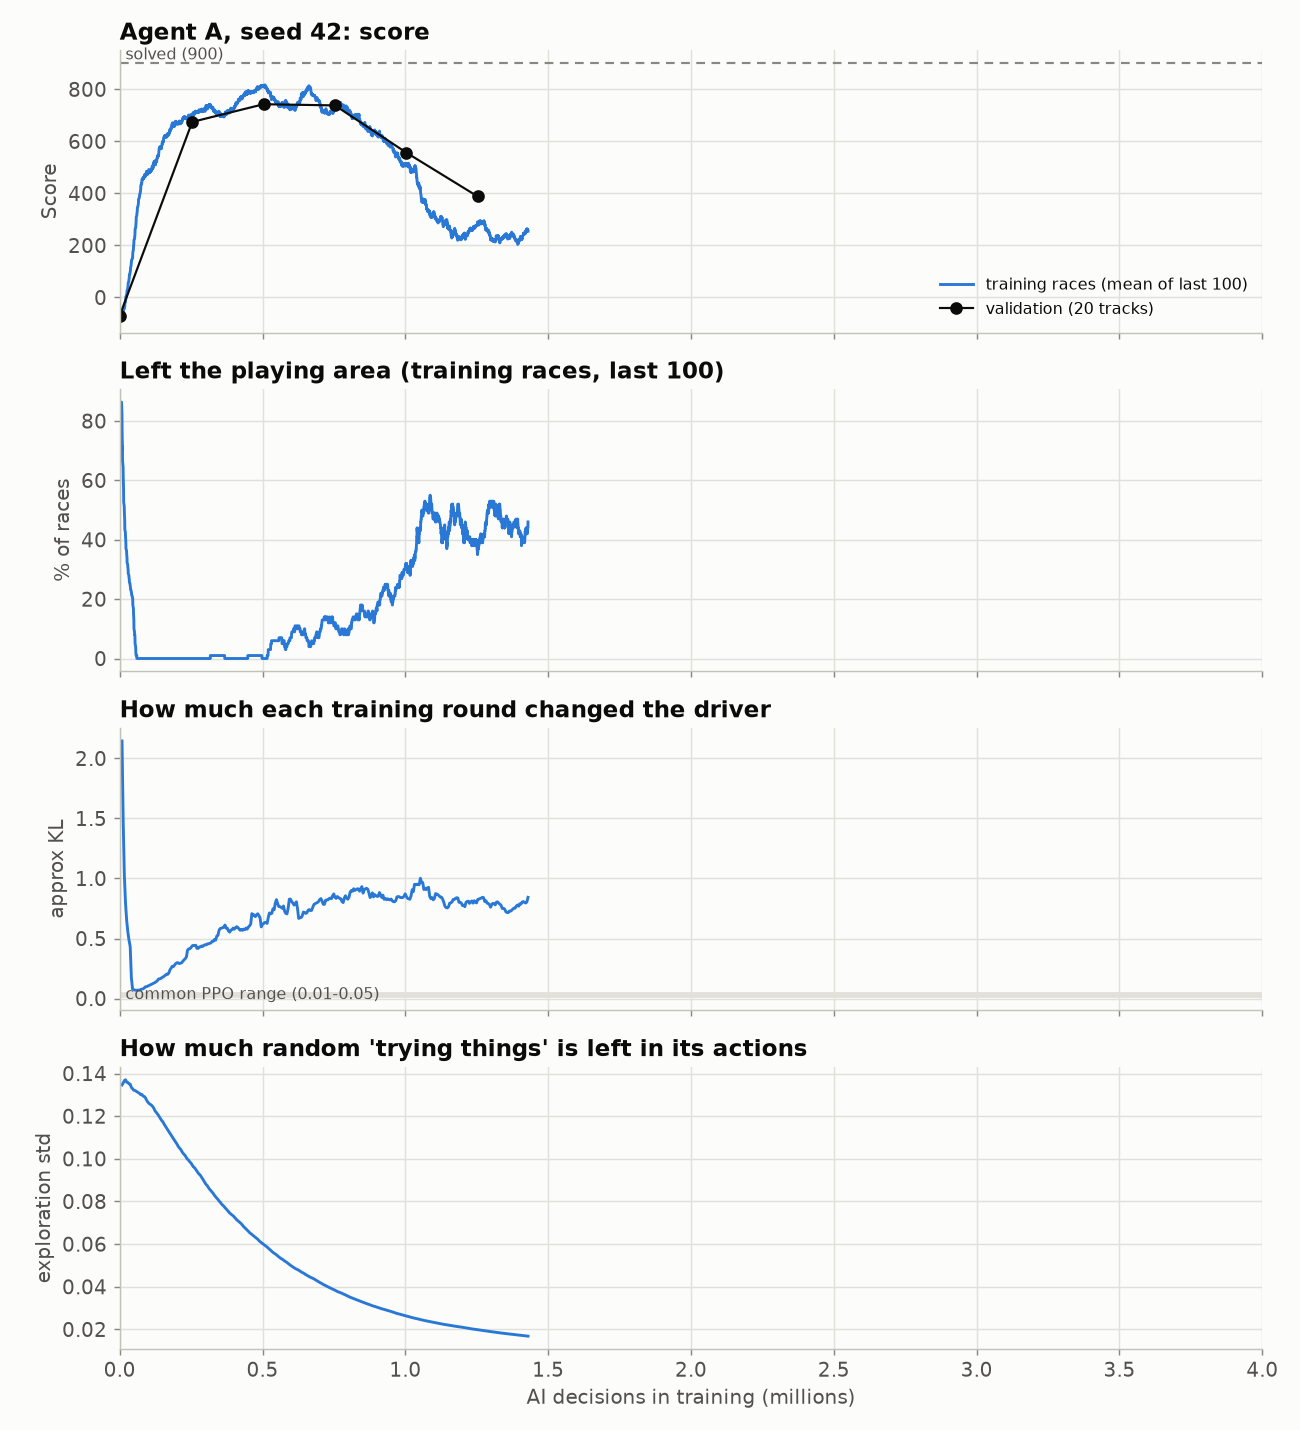
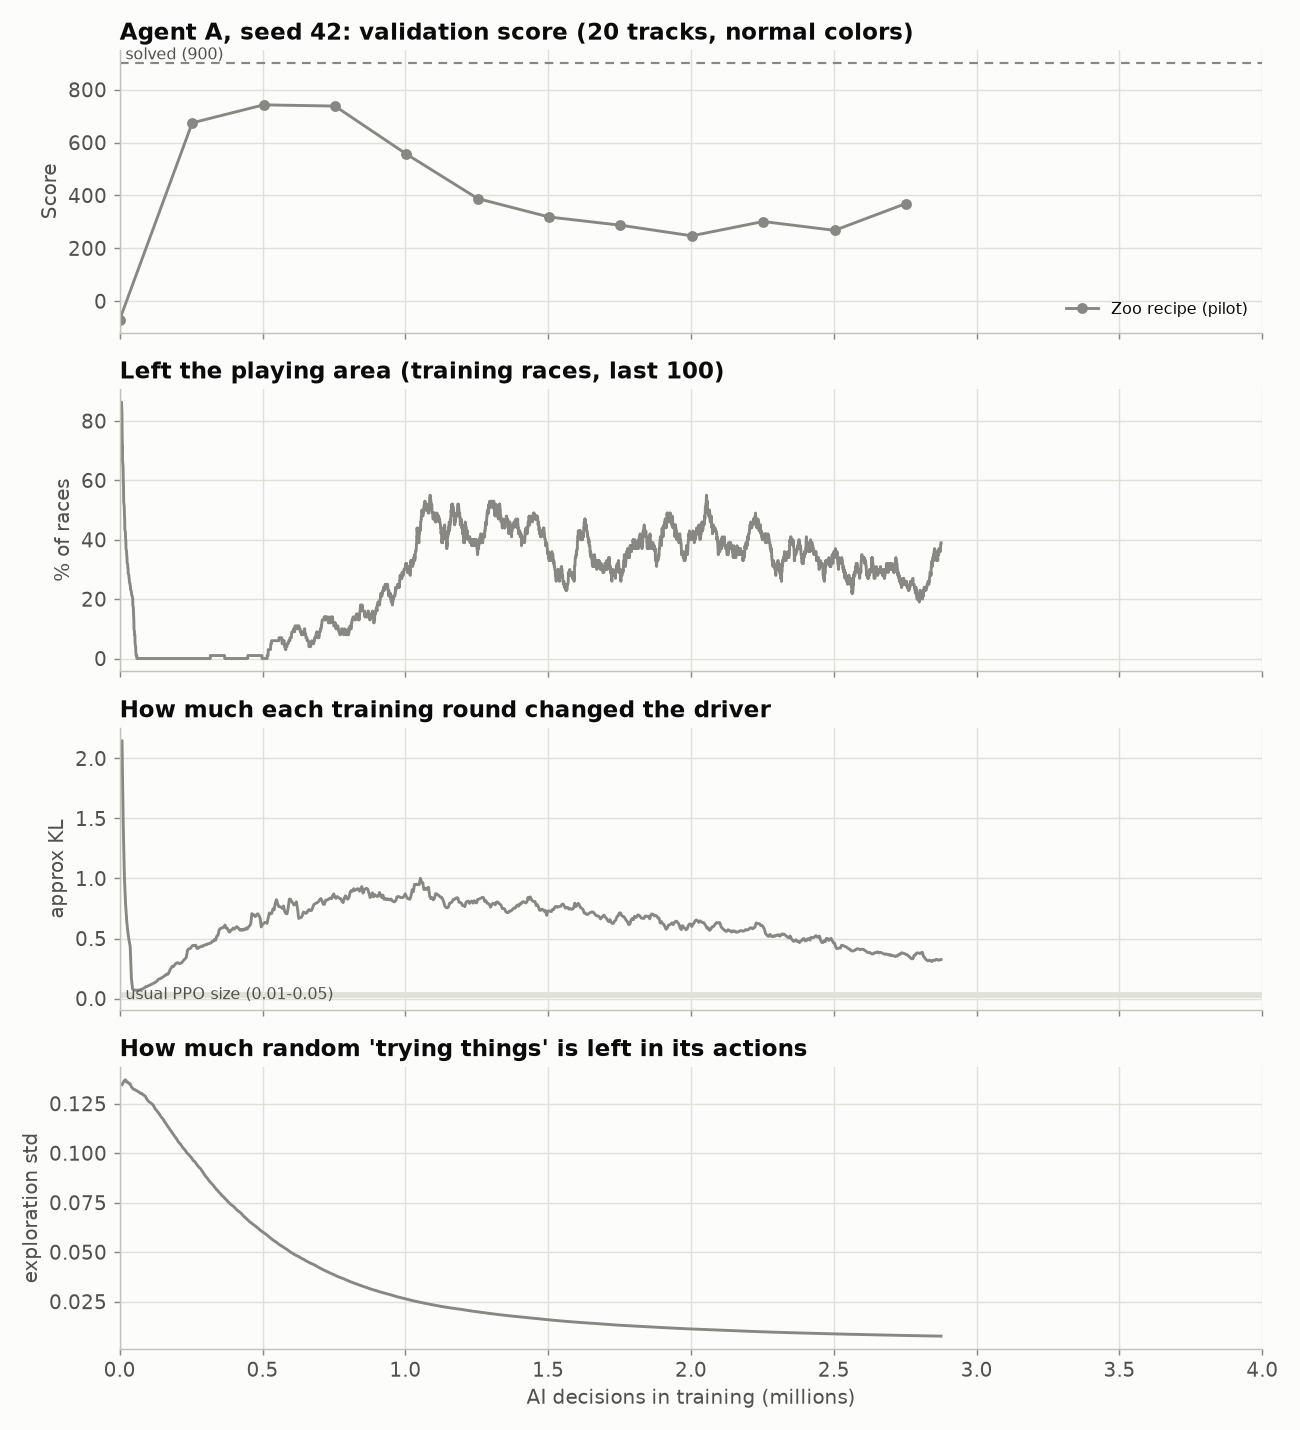
Step 2: pause Zoo pilot; add one-setting recipe fixes and pre-register the trial rule
Recipes (config.RECIPE_FIXES): entropy bonus ent_coef=0.01, or update-size limit target_kl=0.05.
Run folders are named by recipe (config.run_name); all scripts take --recipe.

diff --git a/scripts/plot_training_health.py b/scripts/plot_training_health.py
@@ -1,11 +1,12 @@
 """
-Training health check for one run: is learning stable?
+Training health check: is learning stable? Compares recipes trained with the same agent and seed.
 
-    python -m scripts.plot_training_health --agent A --seed 42 --out results/step2/A_seed42_training_health.png
+    python -m scripts.plot_training_health --agent A --seed 42 --recipes zoo entropy kl_limit \
+        --out results/step2/A_seed42_training_health.png
 
 Four small charts sharing the same x-axis (AI decisions in training):
-  1. Score: training races (mean of last 100) and validation checks (20 tracks).
-  2. Off track: % of training races that ended by leaving the playing area.
+  1. Validation score (20 tracks, normal colors) at every checkpoint.
+  2. Off track: % of training races that ended by leaving the playing area (last 100 races).
   3. How much each training round changed the driver (PPO's "approx KL"; higher = bigger change).
   4. How random the driver's actions still are (PPO's exploration "std"; lower = less trying new things).
 """
@@ -22,57 +23,71 @@ from racecar import plot_style
 plot_style.apply()
 import matplotlib.pyplot as plt
 
+# All lines are the same agent, so recipes are told apart by lightness + line style (plus the legend).
+RECIPE_STYLES = {
+    "zoo": dict(color=plot_style.MUTED, linestyle="-", label="Zoo recipe (pilot)"),
+    "entropy": dict(color=plot_style.SEQUENTIAL_BLUES[2], linestyle="-", label="fix: entropy bonus 0.01"),
+    "kl_limit": dict(color=plot_style.SEQUENTIAL_BLUES[4], linestyle="--", label="fix: update-size limit (KL 0.05)"),
+}
+
 
 def tb_scalars(run_dir):
-    ev = EventAccumulator(sorted(glob.glob(str(run_dir / "tb" / "*" / "events*")))[-1])
-    ev.Reload()
-    return {t.split("/")[-1]: pd.Series({e.step: e.value for e in ev.Scalars(t)}).sort_index()
-            for t in ("train/approx_kl", "train/std", "train/clip_fraction")}
+    """All TensorBoard sessions of a run (a resumed run has several), joined into one series per tag."""
+    out = {}
+    for path in sorted(glob.glob(str(run_dir / "tb" / "*" / "events*"))):
+        ev = EventAccumulator(path)
+        ev.Reload()
+        for tag in ("train/approx_kl", "train/std"):
+            if tag in ev.Tags()["scalars"]:
+                s = pd.Series({e.step: e.value for e in ev.Scalars(tag)})
+                key = tag.split("/")[-1]
+                out[key] = pd.concat([out[key], s]) if key in out else s
+    return {k: v[~v.index.duplicated(keep="last")].sort_index() for k, v in out.items()}
 
 
 def main():
     p = argparse.ArgumentParser()
     p.add_argument("--agent", default="A")
     p.add_argument("--seed", type=int, default=42)
+    p.add_argument("--recipes", nargs="+", default=["zoo"])
     p.add_argument("--out", required=True)
     args = p.parse_args()
 
-    run_dir = config.RUNS_DIR / f"{args.agent}_seed{args.seed}"
-    color = plot_style.AGENT_COLORS[args.agent]
-    tr = pd.read_csv(run_dir / "train_episodes.csv").sort_values("timesteps")
-    va = pd.read_csv(run_dir / "validation.csv").groupby("timesteps").agg(
-        score=("score", "mean"), off=("off_track", "mean"))
-    tb = tb_scalars(run_dir)
-    x_tr = tr["timesteps"] / 1e6
-
     fig, axes = plt.subplots(4, 1, figsize=(10, 11), sharex=True)
+    for recipe in args.recipes:
+        run_dir = config.RUNS_DIR / config.run_name(args.agent, args.seed, recipe)
+        if not (run_dir / "validation.csv").exists():
+            continue
+        style = RECIPE_STYLES[recipe]
+        tr = pd.read_csv(run_dir / "train_episodes.csv").sort_values("timesteps")
+        va = pd.read_csv(run_dir / "validation.csv").groupby("timesteps")["score"].mean()
+        tb = tb_scalars(run_dir)
+        axes[0].plot(va.index / 1e6, va.values, marker="o", markersize=5, linewidth=1.6, **style)
+        axes[1].plot(tr["timesteps"] / 1e6, 100 * tr["off_track"].astype(float).rolling(100, min_periods=20).mean(),
+                     linewidth=1.6, **style)
+        axes[2].plot(tb["approx_kl"].index / 1e6, tb["approx_kl"].rolling(8, min_periods=1).mean(), linewidth=1.6, **style)
+        axes[3].plot(tb["std"].index / 1e6, tb["std"], linewidth=1.6, **style)
+
     ax = axes[0]
-    ax.plot(x_tr, tr["score"].rolling(100, min_periods=20).mean(), color=color, linewidth=1.6,
-            label="training races (mean of last 100)")
-    ax.plot(va.index / 1e6, va["score"], color=plot_style.INK, marker="o", markersize=6, linewidth=1.2,
-            label=f"validation ({len(config.VALIDATION_DURING_TRAINING)} tracks)")
     ax.axhline(config.SOLVED_SCORE, color=plot_style.MUTED, linestyle=(0, (4, 3)), linewidth=1.2)
     ax.text(0.005, config.SOLVED_SCORE + 15, "solved (900)", color=plot_style.INK_SECONDARY, fontsize=9,
             transform=ax.get_yaxis_transform())
     ax.set_ylabel("Score")
     ax.legend(loc="lower right", fontsize=9)
-    ax.set_title(f"Agent {args.agent}, seed {args.seed}: score", loc="left")
+    ax.set_title(f"Agent {args.agent}, seed {args.seed}: validation score "
+                 f"({len(config.VALIDATION_DURING_TRAINING)} tracks, normal colors)", loc="left")
 
-    ax = axes[1]
-    ax.plot(x_tr, 100 * tr["off_track"].astype(float).rolling(100, min_periods=20).mean(), color=color, linewidth=1.6)
-    ax.set_ylabel("% of races")
-    ax.set_title("Left the playing area (training races, last 100)", loc="left")
+    axes[1].set_ylabel("% of races")
+    axes[1].set_title("Left the playing area (training races, last 100)", loc="left")
 
     ax = axes[2]
-    ax.plot(tb["approx_kl"].index / 1e6, tb["approx_kl"].rolling(8, min_periods=1).mean(), color=color, linewidth=1.6)
     ax.axhspan(0.01, 0.05, color=plot_style.GRID, zorder=0)
-    ax.text(0.005, 0.03, "common PPO range (0.01-0.05)", color=plot_style.INK_SECONDARY, fontsize=9,
+    ax.text(0.005, 0.03, "usual PPO size (0.01-0.05)", color=plot_style.INK_SECONDARY, fontsize=9,
             va="center", transform=ax.get_yaxis_transform())
     ax.set_ylabel("approx KL")
     ax.set_title("How much each training round changed the driver", loc="left")
 
     ax = axes[3]
-    ax.plot(tb["std"].index / 1e6, tb["std"], color=color, linewidth=1.6)
     ax.set_ylabel("exploration std")
     ax.set_title("How much random 'trying things' is left in its actions", loc="left")
     ax.set_xlabel("AI decisions in training (millions)")

diff --git a/scripts/train.py b/scripts/train.py
@@ -1,9 +1,9 @@
 """
 Train one agent (A or B) with one seed. Safe to stop and restart: it resumes from the last checkpoint.
 
-    python -m scripts.train --agent A --seed 42
+    python -m scripts.train --agent A --seed 42 [--recipe entropy]
 
-Writes to runs/<agent>_seed<seed>/:
+Writes to runs/<run name>/ (see config.run_name: e.g. A_seed42 for the Zoo recipe, A_seed42_entropy for a fix):
     run_info.json          settings, versions, git commit, timing, status
     train_episodes.csv     every training race (score, track covered, ...) = learning curve
     validation.csv         validation races at every checkpoint (normal colors, 20 tracks)
@@ -151,12 +151,17 @@ def main():
     p.add_argument("--total-timesteps", type=int, default=config.TOTAL_TIMESTEPS)
     p.add_argument("--checkpoint-every", type=int, default=config.CHECKPOINT_EVERY)
     p.add_argument("--val-tracks", type=int, default=len(config.VALIDATION_DURING_TRAINING))
-    p.add_argument("--run-dir", default=None, help="default: runs/<agent>_seed<seed> (other folders are for tests)")
+    p.add_argument("--recipe", choices=sorted(config.RECIPE_FIXES), default=config.RECIPE)
+    p.add_argument("--run-dir", default=None, help="default: runs/<run name> (other folders are for tests)")
     args = p.parse_args()
 
     torch.set_num_threads(config.TORCH_CPU_THREADS)
-    run_dir = config.RUNS_DIR / f"{args.agent}_seed{args.seed}" if args.run_dir is None else config.PROJECT_ROOT / args.run_dir
+    run_name = config.run_name(args.agent, args.seed, args.recipe)
+    run_dir = config.RUNS_DIR / run_name if args.run_dir is None else config.PROJECT_ROOT / args.run_dir
     run = Run(args.agent, args.seed, args.total_timesteps, args.checkpoint_every, args.val_tracks, run_dir)
+    if run.info and run.info.get("recipe", "zoo") != args.recipe:
+        log(f"STOP: {run_dir.name} was trained with recipe '{run.info.get('recipe', 'zoo')}', not '{args.recipe}'.")
+        sys.exit(2)
     if run.info and run.info["status"] == "complete":
         log(f"{run_dir.name} is already complete. Nothing to do.")
         return
@@ -180,6 +185,8 @@ def main():
             "checkpoint_every": args.checkpoint_every,
             "validation_tracks_during_training": run.val_tracks,
             "hyperparameters_source": "rl_zoo3 2.9.1 hyperparams/ppo.yml, CarRacing-v3 (grayscale switched off: see config.py)",
+            "recipe": args.recipe,
+            "recipe_change_from_zoo": config.RECIPE_FIXES[args.recipe],
             "status": "running",
             "timesteps_done": 0,
             "sessions": [],
@@ -218,9 +225,11 @@ def main():
     else:
         if ckpt_path is None:
             log(f"Starting {run_dir.name}: agent {args.agent} ({agent_cfg['description']}), seed {args.seed}, "
-                f"{args.total_timesteps:,} decisions. GPU free: {free_gb:.2f} GB.")
+                f"recipe '{args.recipe}' {config.RECIPE_FIXES[args.recipe]}, {args.total_timesteps:,} decisions. "
+                f"GPU free: {free_gb:.2f} GB.")
             venv = build_vec_env(config.N_ENVS, env_seed, agent_cfg["color_mode"], config.CONTINUOUS_ACTIONS, config.GRAYSCALE)
-            model = build_ppo(venv, args.seed, config.CONTINUOUS_ACTIONS, tensorboard_log=str(run_dir / "tb"))
+            model = build_ppo(venv, args.seed, config.CONTINUOUS_ACTIONS, tensorboard_log=str(run_dir / "tb"),
+                              recipe=args.recipe)
             start_ts = 0
         else:
             log(f"RESUMING {run_dir.name} from checkpoint at {start_ts:,} decisions (session {session_idx}).")

diff --git a/scripts/evaluate_agent.py b/scripts/evaluate_agent.py
@@ -5,8 +5,9 @@ The hidden test tracks are NOT available here (Step 6 has its own script).
     python -m scripts.evaluate_agent --agent A --seeds 42 --tracks validation --colors normal
     python -m scripts.evaluate_agent --agent A --tracks analysis --colors normal unseen
 
-Writes results/evals/<agent>_seed<seed>/<tracks>_<colors>.csv (one row per race)
-and runs/<agent>_seed<seed>/actions/<tracks>_<colors>.npz (every action, for exact replays).
+Writes results/evals/<run name>/<tracks>_<colors>.csv (one row per race)
+and runs/<run name>/actions/<tracks>_<colors>.npz (every action, for exact replays).
+Run name = config.run_name(agent, seed, recipe); the recipe defaults to config.RECIPE.
 """
 
 import argparse
@@ -26,15 +27,17 @@ def races(tracks, colors):
     return [(t, None if colors == "normal" else t) for t in tracks]
 
 
-def evaluate_run(agent, seed, track_set, colors, checkpoint="final"):
-    run_dir = config.RUNS_DIR / f"{agent}_seed{seed}"
+def evaluate_run(agent, seed, track_set, colors, checkpoint="final", recipe=None):
+    run_name = config.run_name(agent, seed, recipe)
+    run_dir = config.RUNS_DIR / run_name
     model = PPO.load(run_dir / "checkpoints" / f"model_{checkpoint}.zip", device=config.DEVICE)
     df, actions = evaluate(model, races(TRACK_SETS[track_set], colors), record_actions=True)
     df.insert(0, "agent", agent)
     df.insert(1, "seed", seed)
     df.insert(2, "checkpoint", checkpoint)
+    df.insert(3, "recipe", recipe or config.RECIPE)
     name = f"{track_set}_{colors}" + ("" if checkpoint == "final" else f"_ckpt{checkpoint}")
-    out = config.RESULTS_DIR / "evals" / f"{agent}_seed{seed}"
+    out = config.RESULTS_DIR / "evals" / run_name
     out.mkdir(parents=True, exist_ok=True)
     df.to_csv(out / f"{name}.csv", index=False)
     (run_dir / "actions").mkdir(exist_ok=True)
@@ -49,12 +52,13 @@ def main():
     p.add_argument("--tracks", choices=sorted(TRACK_SETS), required=True)
     p.add_argument("--colors", choices=["normal", "unseen"], nargs="+", default=["normal"])
     p.add_argument("--checkpoint", default="final")
+    p.add_argument("--recipe", choices=sorted(config.RECIPE_FIXES), default=config.RECIPE)
     args = p.parse_args()
 
     for seed in args.seeds:
         for colors in args.colors:
-            df = evaluate_run(args.agent, seed, args.tracks, colors, args.checkpoint)
-            print(json.dumps({"agent": args.agent, "seed": seed, "tracks": args.tracks, "colors": colors,
+            df = evaluate_run(args.agent, seed, args.tracks, colors, args.checkpoint, args.recipe)
+            print(json.dumps({"agent": args.agent, "seed": seed, "recipe": args.recipe, "tracks": args.tracks, "colors": colors,
                               "checkpoint": args.checkpoint, **summarize(df)}), flush=True)
 
 

diff --git a/scripts/inspect_driving.py b/scripts/inspect_driving.py
@@ -6,7 +6,7 @@ How does the AI actually drive? Replays recorded races (exactly) and measures dr
 For every race: speed, time on grass, steering smoothness, wobble, braking, direction, possible shortcuts.
 For 5 races (best, median, worst score + 2 more): MP4 video, contact sheet (frames every 0.4 s),
 and a top-down map of the car's path coloured by speed. Every replay is checked against its recorded result.
-Outputs go to results/driving/<agent>_seed<seed>_<tracks>_<colors>/.
+Outputs go to results/driving/<run name>_<tracks>_<colors>/ (run name: see config.run_name).
 """
 
 import argparse
@@ -120,12 +120,14 @@ def main():
     p.add_argument("--colors", default="normal")
     p.add_argument("--checkpoint", default="final")
     p.add_argument("--workers", type=int, default=6)
+    p.add_argument("--recipe", choices=sorted(config.RECIPE_FIXES), default=config.RECIPE)
     args = p.parse_args()
+    run_name = config.run_name(args.agent, args.seed, args.recipe)
 
     name = f"{args.tracks}_{args.colors}" + ("" if args.checkpoint == "final" else f"_ckpt{args.checkpoint}")
-    races = pd.read_csv(config.RESULTS_DIR / "evals" / f"{args.agent}_seed{args.seed}" / f"{name}.csv")
-    acts = np.load(config.RUNS_DIR / f"{args.agent}_seed{args.seed}" / "actions" / f"{name}.npz")
-    out = config.RESULTS_DIR / "driving" / f"{args.agent}_seed{args.seed}_{name}"
+    races = pd.read_csv(config.RESULTS_DIR / "evals" / run_name / f"{name}.csv")
+    acts = np.load(config.RUNS_DIR / run_name / "actions" / f"{name}.npz")
+    out = config.RESULTS_DIR / "driving" / f"{run_name}_{name}"
     (out / "videos").mkdir(parents=True, exist_ok=True)
 
     jobs = [(r, acts[f"{r['track_seed']}_{r['color_seed']}"]) for r in races.to_dict("records")]
@@ -147,7 +149,7 @@ def main():
         tag = f"{label}_track{row['track_seed']}_score{row['score']:.0f}"
         imageio.mimsave(out / "videos" / f"{tag}.mp4", rep["frames"], fps=50, macro_block_size=1,
                         ffmpeg_params=["-crf", "18", "-preset", "slow"])
-        title = (f"{args.agent} seed {args.seed}, {label}: track {row['track_seed']}, score {row['score']:.1f}, "
+        title = (f"{args.agent} seed {args.seed} ({args.recipe}), {label}: track {row['track_seed']}, score {row['score']:.1f}, "
                  f"covered {row['track_covered_pct']:.1f}%")
         contact_sheet(rep["frames"], title, out / f"{tag}_frames.png")
         path_map(rep, title, out / f"{tag}_path.png")

diff --git a/config.py b/config.py
@@ -115,6 +115,23 @@ POLICY_KWARGS = dict(
 )
 CONTINUOUS_ONLY_POLICY_KWARGS = dict(log_std_init=-2)
 
+# Recipe fixes (Step 2). The Zoo recipe collapsed in the seed-42 pilot (PROGRESS.md, Step 2): its exploration
+# noise shrank to almost nothing and the driving got worse. Each fix changes exactly ONE PPO setting.
+# Both were tried on seed 42 side by side; the winner was picked on validation tracks only.
+RECIPE_FIXES = {
+    "zoo": {},                                   # the Zoo recipe unchanged (the paused pilot)
+    "entropy": dict(ent_coef=0.01),              # entropy bonus: a small reward for keeping some randomness
+    "kl_limit": dict(target_kl=0.05),            # end a training round early once the driver has changed too much
+}
+RECIPE = "zoo"                                   # the recipe every agent uses; set to the trial winner below
+RECIPE_TRIAL_MIN_SCORE = 500                     # if neither fix's final model reaches this on validation: stop
+
+
+def run_name(agent, seed, recipe=None):
+    """Folder name of one training run. The Zoo recipe has no suffix (the pilot); a fix adds its name."""
+    recipe = RECIPE if recipe is None else recipe
+    return f"{agent}_seed{seed}" + ("" if recipe == "zoo" else f"_{recipe}")
+
 # ---------------------------------------------------------------------------
 # Agents
 # ---------------------------------------------------------------------------

diff --git a/scripts/summarize_evals.py b/scripts/summarize_evals.py
@@ -19,11 +19,12 @@ def main():
     p.add_argument("--agent", required=True)
     p.add_argument("--name", required=True, help="e.g. analysis_normal, validation_normal")
     p.add_argument("--out", default=None)
+    p.add_argument("--recipe", choices=sorted(config.RECIPE_FIXES), default=config.RECIPE)
     args = p.parse_args()
 
     rows = []
     for seed in config.TRAINING_SEEDS:
-        path = config.RESULTS_DIR / "evals" / f"{args.agent}_seed{seed}" / f"{args.name}.csv"
+        path = config.RESULTS_DIR / "evals" / config.run_name(args.agent, seed, args.recipe) / f"{args.name}.csv"
         if path.exists():
             rows.append({"seed": seed, **summarize(pd.read_csv(path))})
     table = pd.DataFrame(rows)
@@ -35,7 +36,7 @@ def main():
     print(md)
     if args.out:
         with open(args.out, "w") as f:
-            f.write(f"Agent {args.agent}, {args.name}\n\n{md}\n")
+            f.write(f"Agent {args.agent} (recipe '{args.recipe}'), {args.name}\n\n{md}\n")
 
 
 if __name__ == "__main__":

diff --git a/racecar/train_utils.py b/racecar/train_utils.py
@@ -68,13 +68,14 @@ def linear_schedule(initial_value):
     return schedule
 
 
-def build_ppo(venv, seed, continuous, tensorboard_log=None):
+def build_ppo(venv, seed, continuous, tensorboard_log=None, recipe="zoo"):
     policy_kwargs = dict(config.POLICY_KWARGS)
     policy_kwargs["activation_fn"] = getattr(torch.nn, policy_kwargs["activation_fn"])
-    extra = {}
+    params = dict(config.PPO_PARAMS)
     if continuous:
         policy_kwargs.update(config.CONTINUOUS_ONLY_POLICY_KWARGS)
-        extra = dict(config.CONTINUOUS_ONLY_PARAMS)
+        params.update(config.CONTINUOUS_ONLY_PARAMS)
+    params.update(config.RECIPE_FIXES[recipe])     # the one setting a recipe fix changes
     return PPO(
         "CnnPolicy",
         venv,
@@ -84,6 +85,5 @@ def build_ppo(venv, seed, continuous, tensorboard_log=None):
         device=config.DEVICE,
         tensorboard_log=tensorboard_log,
         verbose=0,
-        **config.PPO_PARAMS,
-        **extra,
+        **params,
     )

diff --git a/scripts/plot_learning_curves.py b/scripts/plot_learning_curves.py
@@ -22,8 +22,8 @@ import matplotlib.pyplot as plt
 SEED_STYLES = {42: "-", 142: "--", 242: ":"}
 
 
-def load(agent, seed, name):
-    path = config.RUNS_DIR / f"{agent}_seed{seed}" / name
+def load(agent, seed, name, recipe=None):
+    path = config.RUNS_DIR / config.run_name(agent, seed, recipe) / name
     return pd.read_csv(path) if path.exists() else None
 
 

diff --git a/PROGRESS.md b/PROGRESS.md
@@ -99,3 +99,32 @@ Training health (`results/step2/A_seed42_training_health.png`, from TensorBoard)
 - Likely reason (not yet tested): the exploration noise collapses (nothing in the recipe keeps it up: ent_coef = 0),
   so each update becomes erratic and the driver drifts into under-steering. The Zoo's published result for this
   recipe (175 +/- 100, CarRacing-v0, one run) fits the same picture, but that is also untested.
+
+### Director's decision (2026-10-17, ~00:40): option A, test two fixes side by side
+The pilot was paused at 2.85M decisions (resumable; last checkpoint 2,752,512). It had not recovered:
+validation (20 tracks) at 1.5M-2.75M stayed between 247 and 369. Pilot status in `runs/A_seed42/run_info.json`: "paused".
+
+Two new seed-42 runs, trained at the same time, each the Zoo recipe with exactly ONE change (`config.RECIPE_FIXES`):
+
+| Recipe | Change | Plain English | Run folder |
+|---|---|---|---|
+| `entropy` | `ent_coef` 0.0 -> 0.01 | a small reward for keeping some randomness, so exploration can't collapse to zero | `runs/A_seed42_entropy` |
+| `kl_limit` | `target_kl` None -> 0.05 | each training round stops early once the driver has changed too much (SB3 stops at 1.5 x 0.05) | `runs/A_seed42_kl_limit` |
+
+Why these values: 0.01 is the most common PPO entropy setting; 0.05 is the upper end of the "usual" KL range
+in OpenAI Spinning Up's PPO notes ("usually small, 0.01 or 0.05"). Neither was tuned. Same seed (42) and same
+training tracks as the pilot, so the only difference between the runs is the one setting.
+
+**Selection rule (written down before any result):**
+1. Each trial's agent = its final copy (after 4M decisions), as decided.
+2. Evaluate both final copies on all 100 validation tracks, normal colors. Test tracks are not touched.
+3. Winner = higher mean validation score. A paired test across the 100 tracks (Wilcoxon signed-rank) is
+   reported too; if it is not significant, the pick is still the higher mean, and that is said plainly.
+4. The winning recipe becomes `config.RECIPE` for A and for B (Step 3); its seed-42 run counts as A seed 42.
+   Seeds 142 and 242 then train together with it, without waiting for the director.
+5. Stop and wait for the director only if something is truly broken: a run crashes and can't resume, or
+   neither fix's final copy reaches a validation mean of 500 (`config.RECIPE_TRIAL_MIN_SCORE`), i.e. both
+   still collapse. Nothing else changes (for example the car's slowness is reported, not fixed).
+
+Small honesty note: picking the recipe with seed 42's validation result and then also reporting seed 42 is a
+mild selection effect on validation tracks only; seeds 142/242 and the hidden test tracks are not affected.
